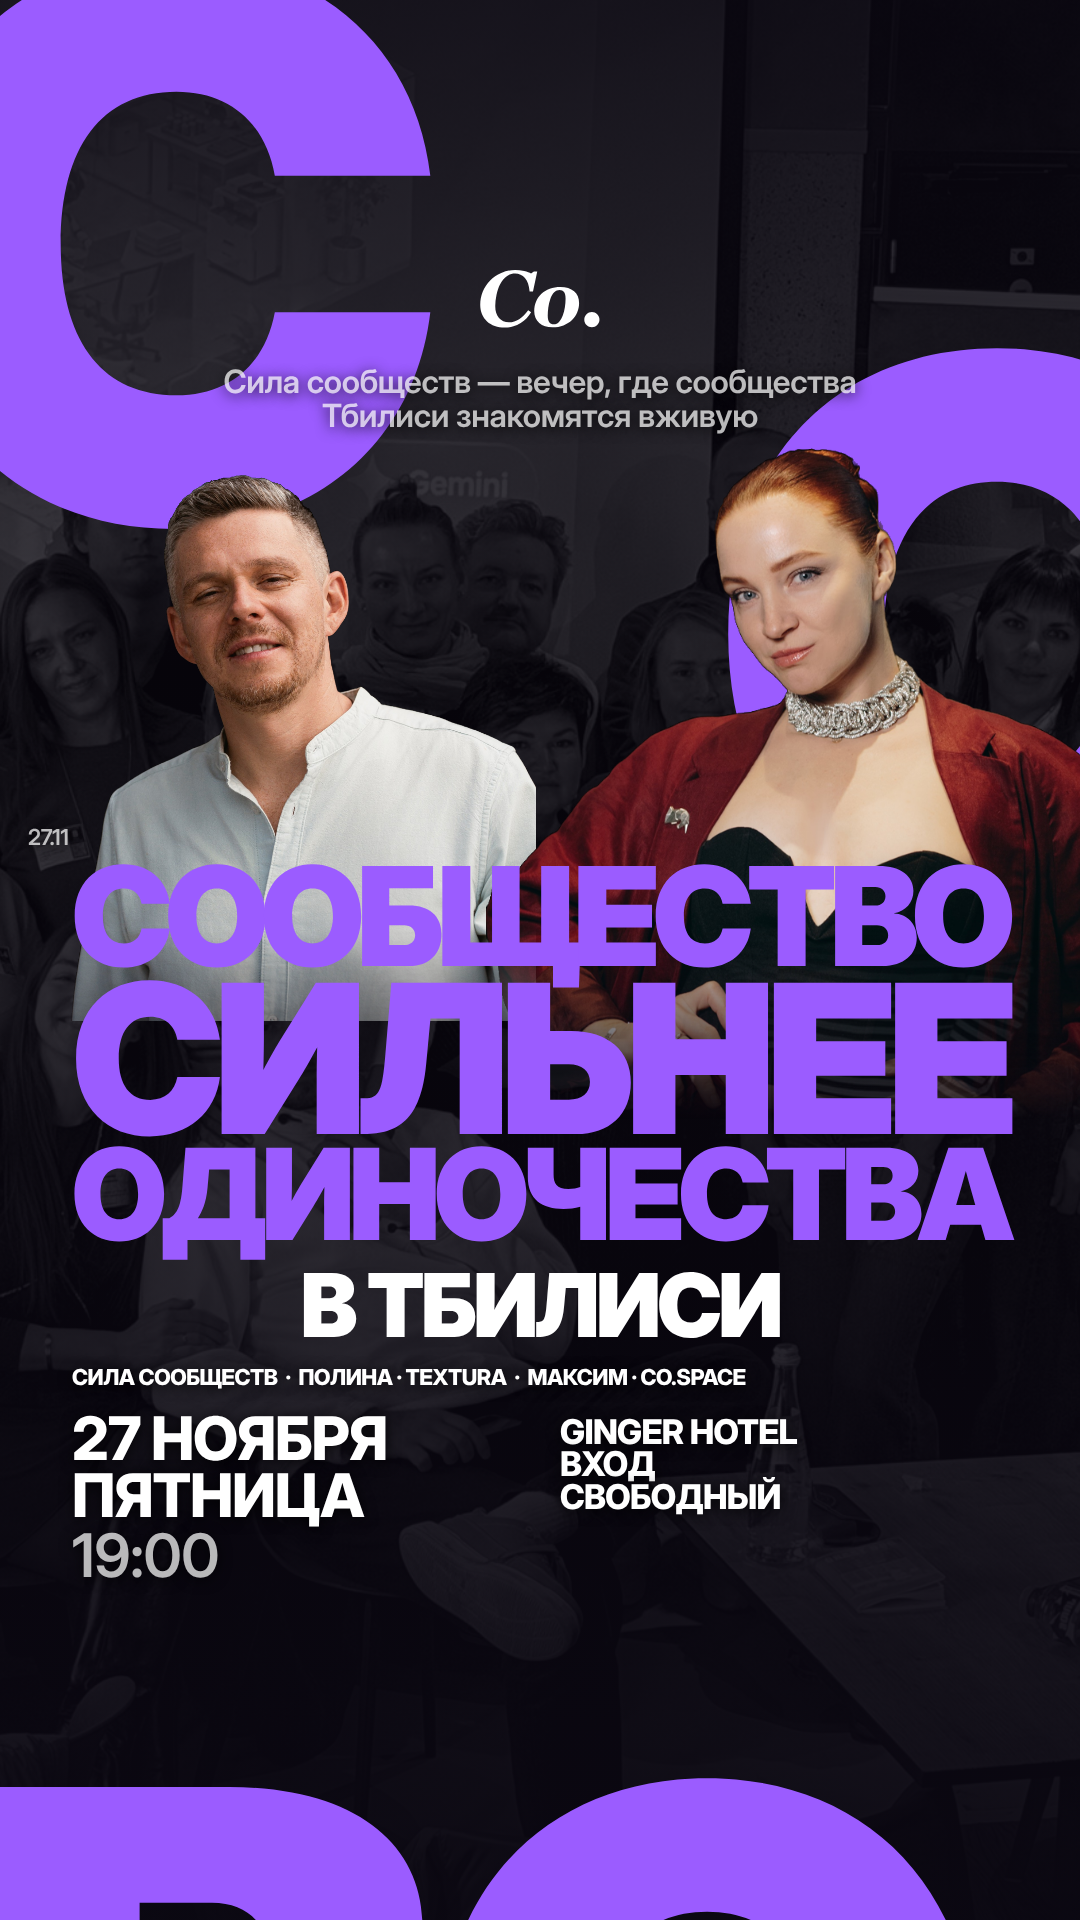
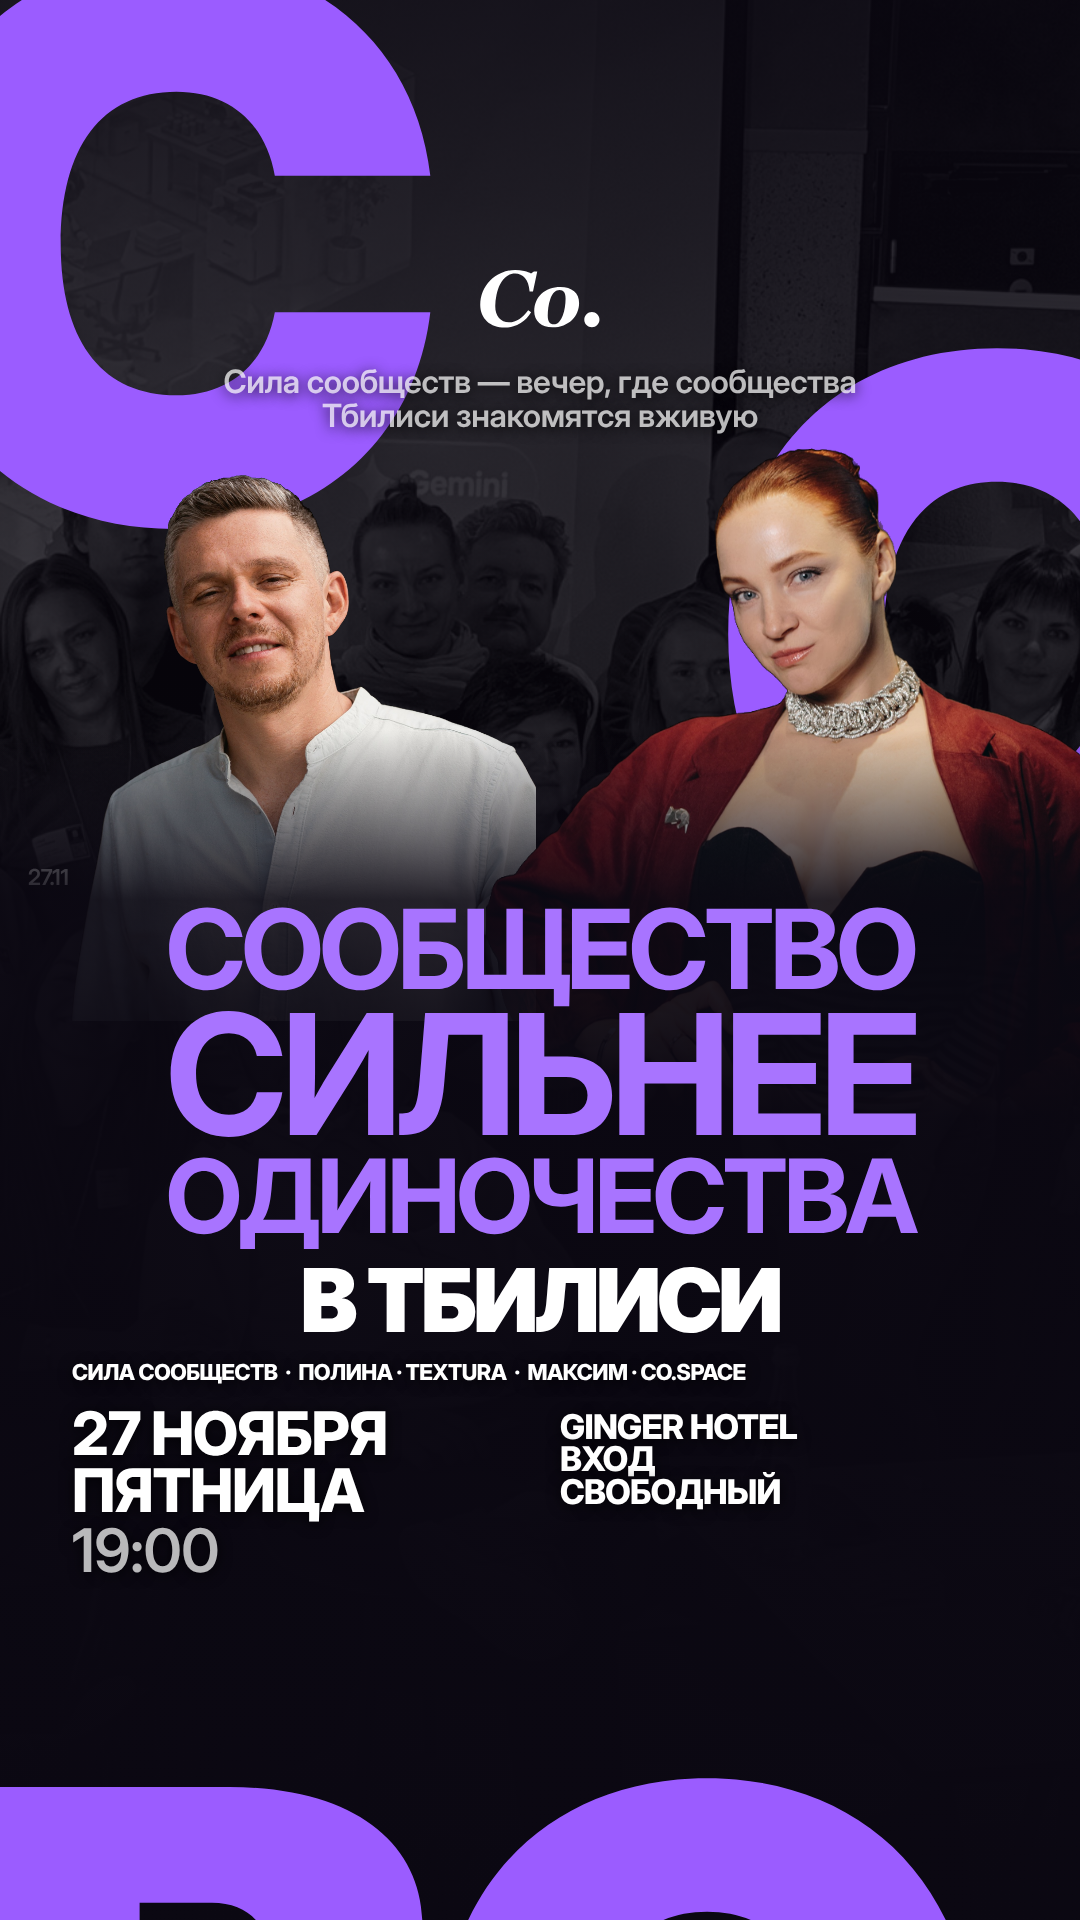
Фиолетовый: заголовок меньше и тоньше, тёмная подложка

Changed region(s): [[0.0306, 0.375, 0.9472, 0.8438], [0.9778, 0.375, 1.0, 0.4688], [0.9778, 0.5312, 1.0, 0.5625]]

diff --git a/creatives/src/poster/edP-9x16.html b/creatives/src/poster/edP-9x16.html
@@ -14,15 +14,17 @@ body{background:#0B0812}
 .title{position:absolute;left:0;right:0;text-align:center;font-weight:900;color:#9B5CFF;letter-spacing:-.05em;line-height:.8}
 .logo svg{display:block}
 .flow{position:absolute;left:72px;right:72px}
-.fit{display:block;white-space:nowrap;font-weight:900;color:#9B5CFF;letter-spacing:-.05em;line-height:.82;text-align:center}
+.fit{display:block;white-space:nowrap;font-weight:700;color:#A874FF;letter-spacing:-.04em;line-height:.9;text-align:center}
+.dark{position:absolute;left:0;right:0;bottom:0;z-index:1}
+.flow{z-index:3}
 .logo svg path{fill:#fff}
-</style></head><body><div class="bg"></div><div class="sh"></div><div class="L" style="left:-110px;top:-60px;font-size:760px">С</div><div class="L" style="right:-170px;top:330px;font-size:760px">О</div><div class="person" style="left:71px;top:475px;height:546px;-webkit-mask-image:linear-gradient(180deg,#000 83.3%,transparent 118.1%);"><img src="max_cut.png"></div><div class="person" style="left:486px;top:445px;height:910px;-webkit-mask-image:linear-gradient(180deg,#000 53.2%,transparent 74.1%);"><img src="polina_cut.png"></div><div class="L" style="left:-40px;top:1760px;font-size:760px">ВО</div><div class="abs t" style="left:0;right:0;top:365px;text-align:center;font-size:32px">Сила сообществ — вечер, где сообщества<br>Тбилиси знакомятся вживую</div><div class="abs t" style="left:28px;top:826px;font-size:22px">27.11</div><div class="flow" style="top:860px">
+</style></head><body><div class="bg"></div><div class="sh"></div><div class="L" style="left:-110px;top:-60px;font-size:760px">С</div><div class="L" style="right:-170px;top:330px;font-size:760px">О</div><div class="person" style="left:71px;top:475px;height:546px;-webkit-mask-image:linear-gradient(180deg,#000 83.3%,transparent 118.1%);"><img src="max_cut.png"></div><div class="person" style="left:486px;top:445px;height:910px;-webkit-mask-image:linear-gradient(180deg,#000 53.2%,transparent 74.1%);"><img src="polina_cut.png"></div><div class="L" style="z-index:2;left:-40px;top:1760px;font-size:760px">ВО</div><div class="abs t" style="left:0;right:0;top:365px;text-align:center;font-size:32px">Сила сообществ — вечер, где сообщества<br>Тбилиси знакомятся вживую</div><div class="abs t" style="left:28px;top:866px;font-size:22px">27.11</div><div class="dark" style="top:730px;background:linear-gradient(180deg,rgba(11,8,18,0),rgba(11,8,18,.88) 170px,rgba(11,8,18,.96))"></div><div class="flow" style="top:900px">
 <span class="fit">СООБЩЕСТВО</span><span class="fit">СИЛЬНЕЕ</span><span class="fit">ОДИНОЧЕСТВА</span>
 <div style="text-align:center;font-weight:900;font-size:88px;letter-spacing:-.04em;line-height:1;color:#fff;margin-top:14px">В ТБИЛИСИ</div>
 <div class="tb" style="font-size:22px;margin-top:18px">СИЛА СООБЩЕСТВ &nbsp;·&nbsp; ПОЛИНА · TEXTURA &nbsp;·&nbsp; МАКСИМ · CO.SPACE</div>
 <div style="display:flex;gap:40px;margin-top:22px"><div style="flex:1"><div class="tb" style="font-size:60px">27 НОЯБРЯ<br>ПЯТНИЦА</div><div class="t" style="font-size:60px">19:00</div></div>
 <div class="tb" style="flex:1;font-size:34px;padding-top:6px">GINGER HOTEL<br>ВХОД<br>СВОБОДНЫЙ</div></div></div>
-<script>document.fonts.ready.then(()=>{const W=document.querySelector('.flow').clientWidth;document.querySelectorAll('.fit').forEach(e=>{e.style.fontSize='100px';e.style.display='inline-block';const w=e.getBoundingClientRect().width;e.style.fontSize=(100*W/w)+'px';e.style.display='block'})})</script><div class="abs logo" style="left:50%;transform:translateX(-50%);top:270px"><svg width="120" height="59" viewBox="0 0 77 38" fill="none" xmlns="http://www.w3.org/2000/svg">
+<script>document.fonts.ready.then(()=>{const W=document.querySelector('.flow').clientWidth;document.querySelectorAll('.fit').forEach(e=>{e.style.fontSize='100px';e.style.display='inline-block';const w=e.getBoundingClientRect().width;e.style.fontSize=(100*W*.8/w)+'px';e.style.display='block'})})</script><div class="abs logo" style="left:50%;transform:translateX(-50%);top:270px"><svg width="120" height="59" viewBox="0 0 77 38" fill="none" xmlns="http://www.w3.org/2000/svg">
 <path d="M15.6912 37.0447C13.4308 37.0447 11.3353 36.7143 9.40484 36.0537C7.47438 35.3761 5.80789 34.4098 4.40543 33.1545C3.01945 31.8988 1.93872 30.371 1.16323 28.5701C0.387743 26.7532 0 24.7047 0 22.425C0 19.402 0.552742 16.5524 1.65822 13.8763C2.78021 11.2001 4.35593 8.81309 6.38539 6.71513C8.33235 4.69976 10.7083 3.08086 13.5133 1.85843C16.3347 0.619476 19.3294 0 22.4974 0C24.4114 0 26.35 0.231271 28.3134 0.693814C30.2771 1.15636 31.7455 1.69323 32.7189 2.30445L34.5753 0.941605H36.7283L33.9811 13.7772H31.8034C31.4733 10.0273 30.4751 7.17767 28.8084 5.22837C27.1585 3.26258 25.0301 2.27967 22.4231 2.27967C20.5092 2.27967 18.7437 2.8496 17.1267 3.98942C15.5098 5.12927 14.0743 6.88031 12.8203 9.24259C11.7973 11.1919 11.0136 13.455 10.4691 16.0321C9.9411 18.5925 9.67709 20.9961 9.67709 23.2428C9.67709 26.5468 10.4773 29.1154 12.0778 30.9491C13.6783 32.7828 15.8232 33.6994 18.5127 33.6994C20.8722 33.6994 23.0584 33.0387 25.0713 31.7171C27.0844 30.3957 29.023 28.4875 30.8875 25.9932L32.7933 27.2816C31.9848 28.5372 31.0196 29.776 29.8976 30.9985C28.7755 32.2044 27.4968 33.2536 26.0613 34.1455C24.5598 35.0871 23.0089 35.8056 21.4084 36.3014C19.8244 36.7969 17.9187 37.0447 15.6912 37.0447Z" fill="white"/>
 <path d="M63.6817 21.2605C63.6817 23.342 63.2858 25.3326 62.4936 27.2323C61.7017 29.132 60.5797 30.784 59.1278 32.188C57.5603 33.6914 55.7205 34.856 53.6085 35.6819C51.5131 36.4914 49.1536 36.8962 46.5303 36.8962C43.0159 36.8962 40.178 35.9628 38.0163 34.0962C35.8548 32.213 34.7741 29.6523 34.7741 26.4146C34.7741 24.2175 35.1783 22.1774 35.9869 20.2942C36.8119 18.411 37.9587 16.7673 39.4271 15.3631C40.8792 13.992 42.6611 12.91 44.7731 12.1171C46.8851 11.3076 49.1701 10.9029 51.6285 10.9029C55.3575 10.9029 58.2946 11.8197 60.4395 13.6534C62.6009 15.4705 63.6817 18.0062 63.6817 21.2605ZM54.9699 18.4605C54.9699 16.5277 54.6398 15.1071 53.9799 14.1985C53.3363 13.29 52.396 12.8357 51.1585 12.8357C49.8879 12.8357 48.7246 13.3478 47.6686 14.372C46.6129 15.3797 45.7547 16.8664 45.0947 18.8322C44.5172 20.4676 44.1048 22.2434 43.8573 24.1597C43.6098 26.0594 43.4862 27.7609 43.4862 29.2641C43.4862 31.263 43.816 32.7167 44.4761 33.6254C45.136 34.5172 46.0929 34.9633 47.3469 34.9633C48.6999 34.9633 49.8713 34.4099 50.8613 33.3032C51.8513 32.1964 52.6351 30.8335 53.2127 29.2146C53.7902 27.6287 54.2274 25.8777 54.5243 23.9615C54.8213 22.0287 54.9699 20.195 54.9699 18.4605Z" fill="white"/>
 <path d="M76.8 31.9899C76.8 33.295 76.3132 34.4265 75.3397 35.3847C74.3829 36.3428 73.2443 36.8218 71.9243 36.8218C70.5879 36.8218 69.433 36.351 68.4593 35.4094C67.5025 34.4512 67.0238 33.3113 67.0238 31.9899C67.0238 30.6683 67.5025 29.5284 68.4593 28.5702C69.433 27.5958 70.5879 27.1084 71.9243 27.1084C73.2443 27.1084 74.3829 27.5958 75.3397 28.5702C76.3132 29.545 76.8 30.6849 76.8 31.9899Z" fill="white"/>

diff --git a/creatives/src/poster/edP-4x5.html b/creatives/src/poster/edP-4x5.html
@@ -14,15 +14,17 @@ body{background:#0B0812}
 .title{position:absolute;left:0;right:0;text-align:center;font-weight:900;color:#9B5CFF;letter-spacing:-.05em;line-height:.8}
 .logo svg{display:block}
 .flow{position:absolute;left:72px;right:72px}
-.fit{display:block;white-space:nowrap;font-weight:900;color:#9B5CFF;letter-spacing:-.05em;line-height:.82;text-align:center}
+.fit{display:block;white-space:nowrap;font-weight:700;color:#A874FF;letter-spacing:-.04em;line-height:.9;text-align:center}
+.dark{position:absolute;left:0;right:0;bottom:0;z-index:1}
+.flow{z-index:3}
 .logo svg path{fill:#fff}
-</style></head><body><div class="bg"></div><div class="sh"></div><div class="L" style="left:-90px;top:-70px;font-size:560px">С</div><div class="L" style="right:-140px;top:150px;font-size:560px">О</div><div class="person" style="left:85px;top:254px;height:506px;-webkit-mask-image:linear-gradient(180deg,#000 82.2%,transparent 115.8%);"><img src="max_cut.png"></div><div class="person" style="left:508px;top:227px;height:844px;-webkit-mask-image:linear-gradient(180deg,#000 52.5%,transparent 72.7%);"><img src="polina_cut.png"></div><div class="L" style="left:-30px;top:1290px;font-size:560px">ВО</div><div class="abs t" style="left:0;right:0;top:150px;text-align:center;font-size:28px">Сила сообществ — вечер, где сообщества<br>Тбилиси знакомятся вживую</div><div class="abs t" style="left:28px;top:526px;font-size:22px">27.11</div><div class="flow" style="top:560px">
+</style></head><body><div class="bg"></div><div class="sh"></div><div class="L" style="left:-90px;top:-70px;font-size:560px">С</div><div class="L" style="right:-140px;top:150px;font-size:560px">О</div><div class="person" style="left:85px;top:254px;height:506px;-webkit-mask-image:linear-gradient(180deg,#000 82.2%,transparent 115.8%);"><img src="max_cut.png"></div><div class="person" style="left:508px;top:227px;height:844px;-webkit-mask-image:linear-gradient(180deg,#000 52.5%,transparent 72.7%);"><img src="polina_cut.png"></div><div class="L" style="z-index:2;left:-30px;top:1290px;font-size:560px">ВО</div><div class="abs t" style="left:0;right:0;top:150px;text-align:center;font-size:28px">Сила сообществ — вечер, где сообщества<br>Тбилиси знакомятся вживую</div><div class="abs t" style="left:28px;top:566px;font-size:22px">27.11</div><div class="dark" style="top:430px;background:linear-gradient(180deg,rgba(11,8,18,0),rgba(11,8,18,.88) 170px,rgba(11,8,18,.96))"></div><div class="flow" style="top:600px">
 <span class="fit">СООБЩЕСТВО</span><span class="fit">СИЛЬНЕЕ</span><span class="fit">ОДИНОЧЕСТВА</span>
 <div style="text-align:center;font-weight:900;font-size:72px;letter-spacing:-.04em;line-height:1;color:#fff;margin-top:14px">В ТБИЛИСИ</div>
 <div class="tb" style="font-size:20px;margin-top:18px">СИЛА СООБЩЕСТВ &nbsp;·&nbsp; ПОЛИНА · TEXTURA &nbsp;·&nbsp; МАКСИМ · CO.SPACE</div>
 <div style="display:flex;gap:40px;margin-top:22px"><div style="flex:1"><div class="tb" style="font-size:48px">27 НОЯБРЯ<br>ПЯТНИЦА</div><div class="t" style="font-size:48px">19:00</div></div>
 <div class="tb" style="flex:1;font-size:28px;padding-top:6px">GINGER HOTEL<br>ВХОД<br>СВОБОДНЫЙ</div></div></div>
-<script>document.fonts.ready.then(()=>{const W=document.querySelector('.flow').clientWidth;document.querySelectorAll('.fit').forEach(e=>{e.style.fontSize='100px';e.style.display='inline-block';const w=e.getBoundingClientRect().width;e.style.fontSize=(100*W/w)+'px';e.style.display='block'})})</script><div class="abs logo" style="left:50%;transform:translateX(-50%);top:60px"><svg width="120" height="59" viewBox="0 0 77 38" fill="none" xmlns="http://www.w3.org/2000/svg">
+<script>document.fonts.ready.then(()=>{const W=document.querySelector('.flow').clientWidth;document.querySelectorAll('.fit').forEach(e=>{e.style.fontSize='100px';e.style.display='inline-block';const w=e.getBoundingClientRect().width;e.style.fontSize=(100*W*.8/w)+'px';e.style.display='block'})})</script><div class="abs logo" style="left:50%;transform:translateX(-50%);top:60px"><svg width="120" height="59" viewBox="0 0 77 38" fill="none" xmlns="http://www.w3.org/2000/svg">
 <path d="M15.6912 37.0447C13.4308 37.0447 11.3353 36.7143 9.40484 36.0537C7.47438 35.3761 5.80789 34.4098 4.40543 33.1545C3.01945 31.8988 1.93872 30.371 1.16323 28.5701C0.387743 26.7532 0 24.7047 0 22.425C0 19.402 0.552742 16.5524 1.65822 13.8763C2.78021 11.2001 4.35593 8.81309 6.38539 6.71513C8.33235 4.69976 10.7083 3.08086 13.5133 1.85843C16.3347 0.619476 19.3294 0 22.4974 0C24.4114 0 26.35 0.231271 28.3134 0.693814C30.2771 1.15636 31.7455 1.69323 32.7189 2.30445L34.5753 0.941605H36.7283L33.9811 13.7772H31.8034C31.4733 10.0273 30.4751 7.17767 28.8084 5.22837C27.1585 3.26258 25.0301 2.27967 22.4231 2.27967C20.5092 2.27967 18.7437 2.8496 17.1267 3.98942C15.5098 5.12927 14.0743 6.88031 12.8203 9.24259C11.7973 11.1919 11.0136 13.455 10.4691 16.0321C9.9411 18.5925 9.67709 20.9961 9.67709 23.2428C9.67709 26.5468 10.4773 29.1154 12.0778 30.9491C13.6783 32.7828 15.8232 33.6994 18.5127 33.6994C20.8722 33.6994 23.0584 33.0387 25.0713 31.7171C27.0844 30.3957 29.023 28.4875 30.8875 25.9932L32.7933 27.2816C31.9848 28.5372 31.0196 29.776 29.8976 30.9985C28.7755 32.2044 27.4968 33.2536 26.0613 34.1455C24.5598 35.0871 23.0089 35.8056 21.4084 36.3014C19.8244 36.7969 17.9187 37.0447 15.6912 37.0447Z" fill="white"/>
 <path d="M63.6817 21.2605C63.6817 23.342 63.2858 25.3326 62.4936 27.2323C61.7017 29.132 60.5797 30.784 59.1278 32.188C57.5603 33.6914 55.7205 34.856 53.6085 35.6819C51.5131 36.4914 49.1536 36.8962 46.5303 36.8962C43.0159 36.8962 40.178 35.9628 38.0163 34.0962C35.8548 32.213 34.7741 29.6523 34.7741 26.4146C34.7741 24.2175 35.1783 22.1774 35.9869 20.2942C36.8119 18.411 37.9587 16.7673 39.4271 15.3631C40.8792 13.992 42.6611 12.91 44.7731 12.1171C46.8851 11.3076 49.1701 10.9029 51.6285 10.9029C55.3575 10.9029 58.2946 11.8197 60.4395 13.6534C62.6009 15.4705 63.6817 18.0062 63.6817 21.2605ZM54.9699 18.4605C54.9699 16.5277 54.6398 15.1071 53.9799 14.1985C53.3363 13.29 52.396 12.8357 51.1585 12.8357C49.8879 12.8357 48.7246 13.3478 47.6686 14.372C46.6129 15.3797 45.7547 16.8664 45.0947 18.8322C44.5172 20.4676 44.1048 22.2434 43.8573 24.1597C43.6098 26.0594 43.4862 27.7609 43.4862 29.2641C43.4862 31.263 43.816 32.7167 44.4761 33.6254C45.136 34.5172 46.0929 34.9633 47.3469 34.9633C48.6999 34.9633 49.8713 34.4099 50.8613 33.3032C51.8513 32.1964 52.6351 30.8335 53.2127 29.2146C53.7902 27.6287 54.2274 25.8777 54.5243 23.9615C54.8213 22.0287 54.9699 20.195 54.9699 18.4605Z" fill="white"/>
 <path d="M76.8 31.9899C76.8 33.295 76.3132 34.4265 75.3397 35.3847C74.3829 36.3428 73.2443 36.8218 71.9243 36.8218C70.5879 36.8218 69.433 36.351 68.4593 35.4094C67.5025 34.4512 67.0238 33.3113 67.0238 31.9899C67.0238 30.6683 67.5025 29.5284 68.4593 28.5702C69.433 27.5958 70.5879 27.1084 71.9243 27.1084C73.2443 27.1084 74.3829 27.5958 75.3397 28.5702C76.3132 29.545 76.8 30.6849 76.8 31.9899Z" fill="white"/>

diff --git a/creatives/src/poster/build_editorial_purple.py b/creatives/src/poster/build_editorial_purple.py
@@ -37,7 +37,9 @@ body{background:#0B0812}
 .title{position:absolute;left:0;right:0;text-align:center;font-weight:900;color:#9B5CFF;letter-spacing:-.05em;line-height:.8}
 .logo svg{display:block}
 .flow{position:absolute;left:72px;right:72px}
-.fit{display:block;white-space:nowrap;font-weight:900;color:#9B5CFF;letter-spacing:-.05em;line-height:.82;text-align:center}
+.fit{display:block;white-space:nowrap;font-weight:700;color:#A874FF;letter-spacing:-.04em;line-height:.9;text-align:center}
+.dark{position:absolute;left:0;right:0;bottom:0;z-index:1}
+.flow{z-index:3}
 .logo svg path{fill:#fff}
 """
 
@@ -62,23 +64,24 @@ def poster_purple(fmt):
     s.append(place(PCUT, F, 785, fy, "polina_cut.png", fade))
     # передние нижние буквы
     if story:
-        s.append('<div class="L" style="left:-40px;top:1760px;font-size:760px">ВО</div>')
+        s.append('<div class="L" style="z-index:2;left:-40px;top:1760px;font-size:760px">ВО</div>')
     else:
-        s.append('<div class="L" style="left:-30px;top:1290px;font-size:560px">ВО</div>')
+        s.append('<div class="L" style="z-index:2;left:-30px;top:1290px;font-size:560px">ВО</div>')
     # центр — один поток: заголовок (каждая строка во всю ширину), город, инфо
-    ty = 860 if story else 560
+    ty = 900 if story else 600
     tl = (270 + 95) if story else 150
     s.append(f'<div class="abs t" style="left:0;right:0;top:{tl}px;text-align:center;font-size:{32 if story else 28}px">Сила сообществ — вечер, где сообщества<br>Тбилиси знакомятся вживую</div>')
     s.append(f'<div class="abs t" style="left:28px;top:{ty - 34}px;font-size:22px">27.11</div>')
     cs = 88 if story else 72
     ds = 60 if story else 48
+    s.append(f'<div class="dark" style="top:{ty - 170}px;background:linear-gradient(180deg,rgba(11,8,18,0),rgba(11,8,18,.88) 170px,rgba(11,8,18,.96))"></div>')
     s.append(f'''<div class="flow" style="top:{ty}px">
 <span class="fit">СООБЩЕСТВО</span><span class="fit">СИЛЬНЕЕ</span><span class="fit">ОДИНОЧЕСТВА</span>
 <div style="text-align:center;font-weight:900;font-size:{cs}px;letter-spacing:-.04em;line-height:1;color:#fff;margin-top:14px">В ТБИЛИСИ</div>
 <div class="tb" style="font-size:{22 if story else 20}px;margin-top:18px">СИЛА СООБЩЕСТВ &nbsp;·&nbsp; ПОЛИНА · TEXTURA &nbsp;·&nbsp; МАКСИМ · CO.SPACE</div>
 <div style="display:flex;gap:40px;margin-top:22px"><div style="flex:1"><div class="tb" style="font-size:{ds}px">27 НОЯБРЯ<br>ПЯТНИЦА</div><div class="t" style="font-size:{ds}px">19:00</div></div>
 <div class="tb" style="flex:1;font-size:{34 if story else 28}px;padding-top:6px">GINGER HOTEL<br>ВХОД<br>СВОБОДНЫЙ</div></div></div>
-<script>document.fonts.ready.then(()=>{{const W=document.querySelector('.flow').clientWidth;document.querySelectorAll('.fit').forEach(e=>{{e.style.fontSize='100px';e.style.display='inline-block';const w=e.getBoundingClientRect().width;e.style.fontSize=(100*W/w)+'px';e.style.display='block'}})}})</script>''')
+<script>document.fonts.ready.then(()=>{{const W=document.querySelector('.flow').clientWidth;document.querySelectorAll('.fit').forEach(e=>{{e.style.fontSize='100px';e.style.display='inline-block';const w=e.getBoundingClientRect().width;e.style.fontSize=(100*W*.8/w)+'px';e.style.display='block'}})}})</script>''')
     ly = 270 if story else 60
     s.append(f'<div class="abs logo" style="left:50%;transform:translateX(-50%);top:{ly}px">{LOGO.replace("width=\"77\"", "width=\"120\"").replace("height=\"38\"", "height=\"59\"")}</div>')
     css = BASE % dict(H=H) + A_CSS
